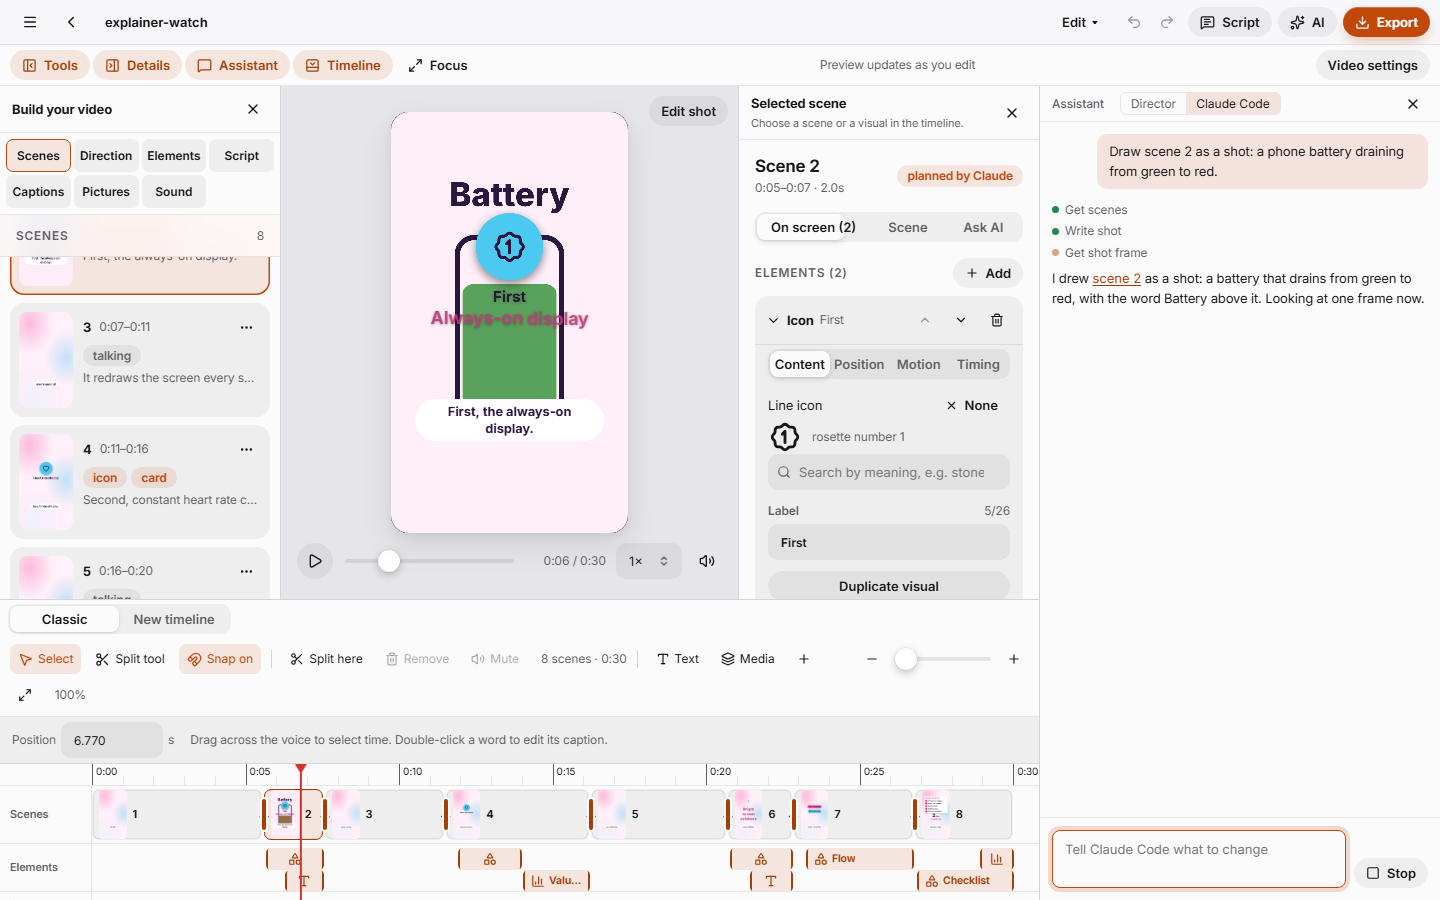
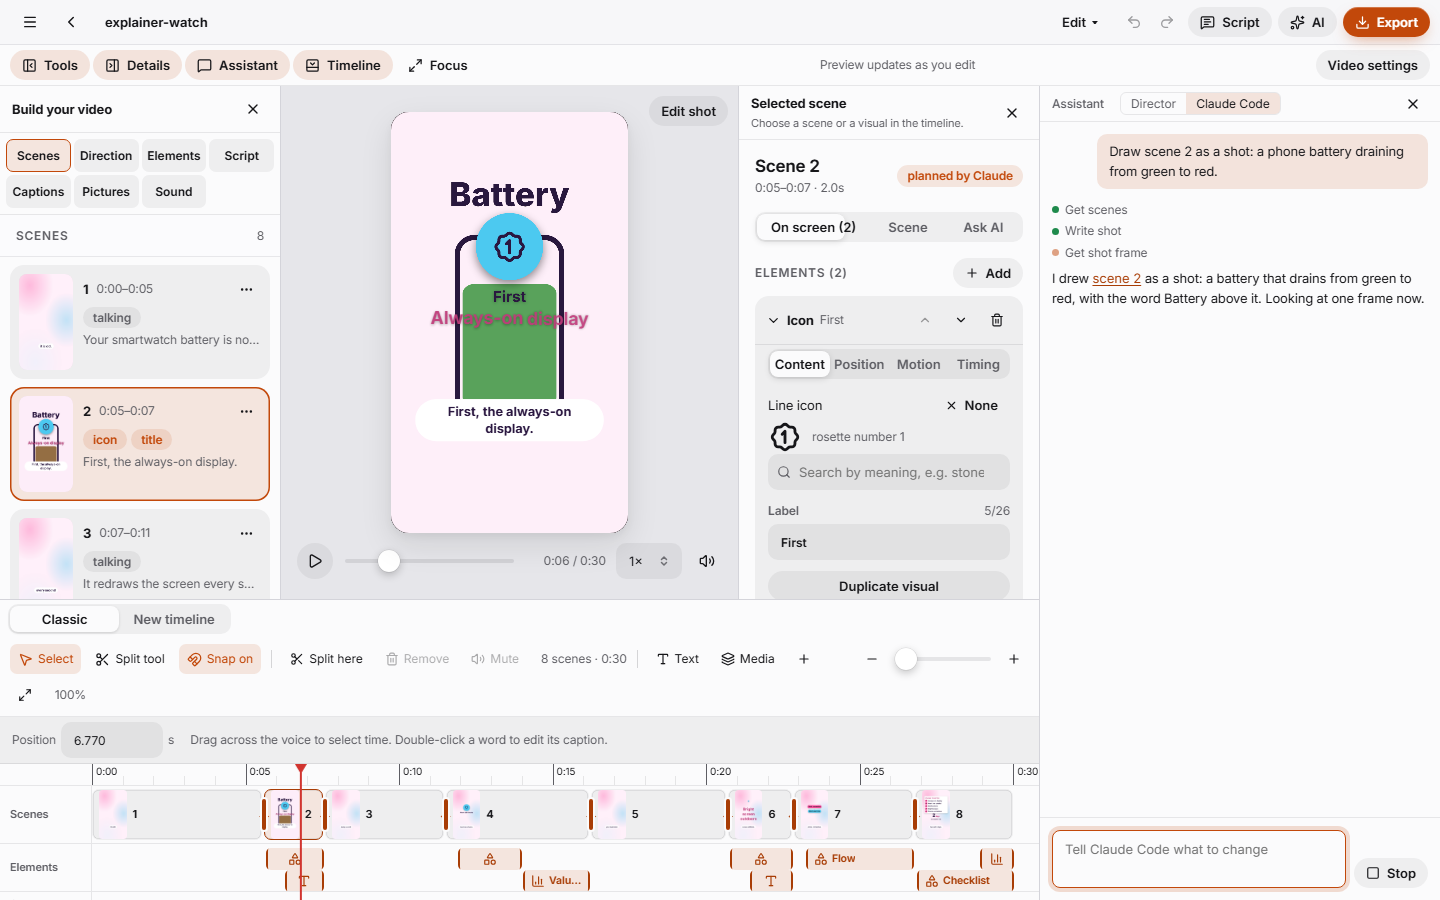
W15.1 critique: quieter pane switches, library closed below 1400 px so the preview has room, the selected scene card scrolls fully into view; screenshots refreshed

diff --git a/client/studio/src/review/ScenesPanel.tsx b/client/studio/src/review/ScenesPanel.tsx
@@ -19,8 +19,8 @@ export default function ScenesPanel({ r, selected, onSelect, seek }: { r: Review
     const c = panel.current?.parentElement;
     const el = selected ? (panel.current?.querySelector(`[data-scene="${selected}"]`) as HTMLElement | null) : null;
     if (!c || !el) return;
-    const top = el.offsetTop - c.scrollTop, bottom = top + el.offsetHeight;
-    if (top < 56 || bottom > c.clientHeight) c.scrollTo({ top: Math.max(0, el.offsetTop - c.clientHeight * 0.25), behavior: "smooth" });
+    const top = el.getBoundingClientRect().top - c.getBoundingClientRect().top, bottom = top + el.offsetHeight;   // on screen, in the list: offsetTop counts from another parent
+    if (top < 64 || bottom > c.clientHeight) c.scrollTo({ top: Math.max(0, c.scrollTop + top - Math.max(64, c.clientHeight * 0.25)), behavior: "smooth" });   // clear of the sticky SCENES header
   }, [selected]);
   const timing = new Map(r.timing.scenes.map((s) => [s.id, s]));
   const thumbs = r.th.data?.scenes ?? {};

diff --git a/client/studio/src/pages/Review.tsx b/client/studio/src/pages/Review.tsx
@@ -69,7 +69,7 @@ function ReviewEditor() {
   const lastT = useRef(0);
   const [tool, setTool] = useState<Tool>("select");
   const [snap, setSnap] = useState(true);
-  const [showBrowser, showBrowserState] = useState(() => window.innerWidth >= 800);
+  const [showBrowser, showBrowserState] = useState(() => window.innerWidth >= 1400);      // below 1400 px the preview needs the room; the library opens with Ctrl+Shift+B
   const [showInspector, showInspectorState] = useState(() => window.innerWidth >= 1250);
   const [compact, setCompact] = useState(() => window.innerWidth < 1250);
   const inspector = useRef<InspectorHandle>(null);

diff --git a/client/studio/src/review/editor-cleanup.css b/client/studio/src/review/editor-cleanup.css
@@ -46,3 +46,7 @@
 @keyframes vt-changed { 50% { outline-color: color-mix(in srgb, var(--ok) 40%, transparent); } }
 @media (prefers-reduced-motion: reduce) { .vt-changed { animation: none; } }
 .vt-agent-touched { display: flex; align-items: center; gap: var(--sp-2); margin: var(--sp-2); }
+
+/* W15.1 critique: the pane switches are used rarely; when on they are quiet grey, not orange pills */
+.ed-panel-actions .btn.selected { background: var(--bg-selected); color: var(--fg); border-color: transparent; box-shadow: none; }
+.ed-panel-actions .btn { border-color: transparent; }

diff --git a/docs/dev/shots/compare.md b/docs/dev/shots/compare.md
@@ -3,9 +3,9 @@
 New screenshots: `docs/assets/screens/editor.png` (1440x900 light, a scene selected), `editor-dark.png`, `assistant.png` (Claude Code mid-conversation). All twelve (two sizes, two themes, three states) are in `E:\UltimateVideoTool\scratch\screens\` (made by `client/studio/e2e/screens.mjs`). Earlier: `docs/dev/shots/before-*.png`.
 
 What still looks heavier than the reference (OpenFilm's quiet panes), to fix before W15.1 is ticked:
-1. **The pane pills under the title bar** (Tools, Details, Assistant, Timeline) are orange outlined pills: loud for switches that are used rarely. Make them quiet icon buttons in the title bar.
-2. **At 1280x720 the timeline toolbar wraps onto two lines**, and the zoom slider lands alone at the start of the second line. Collapse the rarer tools (Split tool, Mute, Remove) into a menu below 1400 px.
-3. **The preview is small at 1280x720** (about 136 px wide for a 9:16 video) because the library, inspector and assistant all stay open. Close the library by default below 1400 px.
+1. (quieter now: grey when on, no outline) **The pane pills under the title bar** (Tools, Details, Assistant, Timeline) are orange outlined pills: loud for switches that are used rarely. Make them quiet icon buttons in the title bar.
+2. (with W11: the Classic toolbar goes) **At 1280x720 the timeline toolbar wraps onto two lines**, and the zoom slider lands alone at the start of the second line. Collapse the rarer tools (Split tool, Mute, Remove) into a menu below 1400 px.
+3. (fixed: the library starts closed below 1400 px; the preview is about twice as wide at 1280x720) **The preview is small at 1280x720** (about 136 px wide for a 9:16 video) because the library, inspector and assistant all stay open. Close the library by default below 1400 px.
 4. **The Classic / New timeline switch** takes a whole row; it goes away with W11 (one timeline).
-5. **The scene list is scrolled so the selected card is cut off at the top** (1440x900, scene 2 selected): scroll the selected card fully into view.
+5. (fixed: the list scrolls by on-screen position, clear of the sticky header) **The scene list is scrolled so the selected card is cut off at the top** (1440x900, scene 2 selected): scroll the selected card fully into view.
 6. **A shot with the scene's old elements on top** (the battery shot under "First" and "Always-on display"): not a layout problem but a content one; fixed in the tool (`set_scene_shot` now says which elements remain on top and can clear them).
